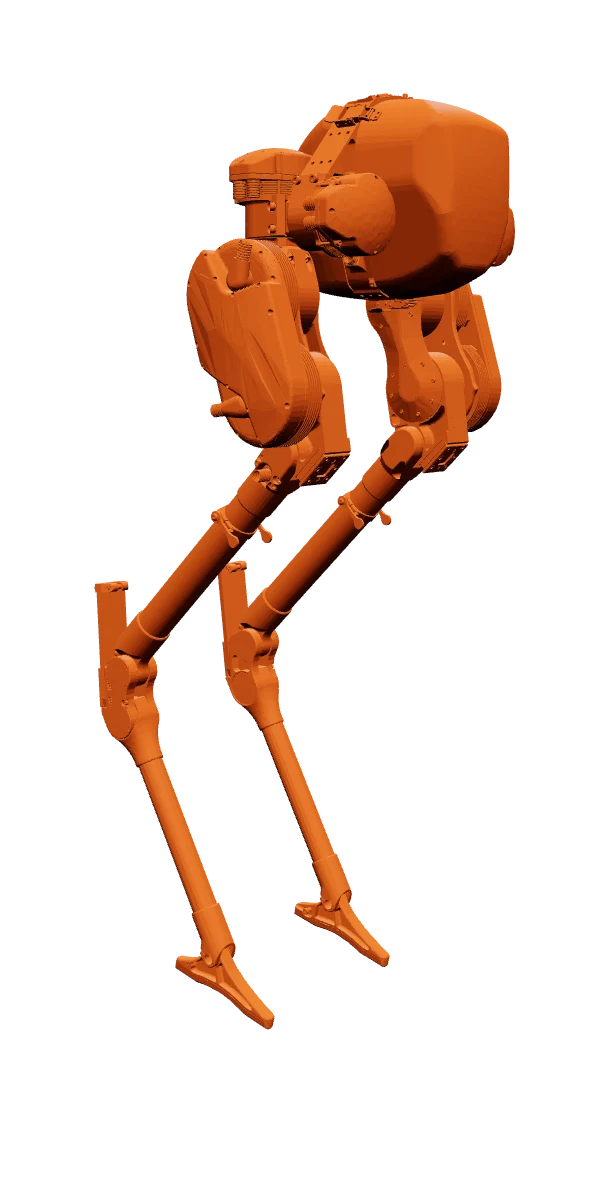
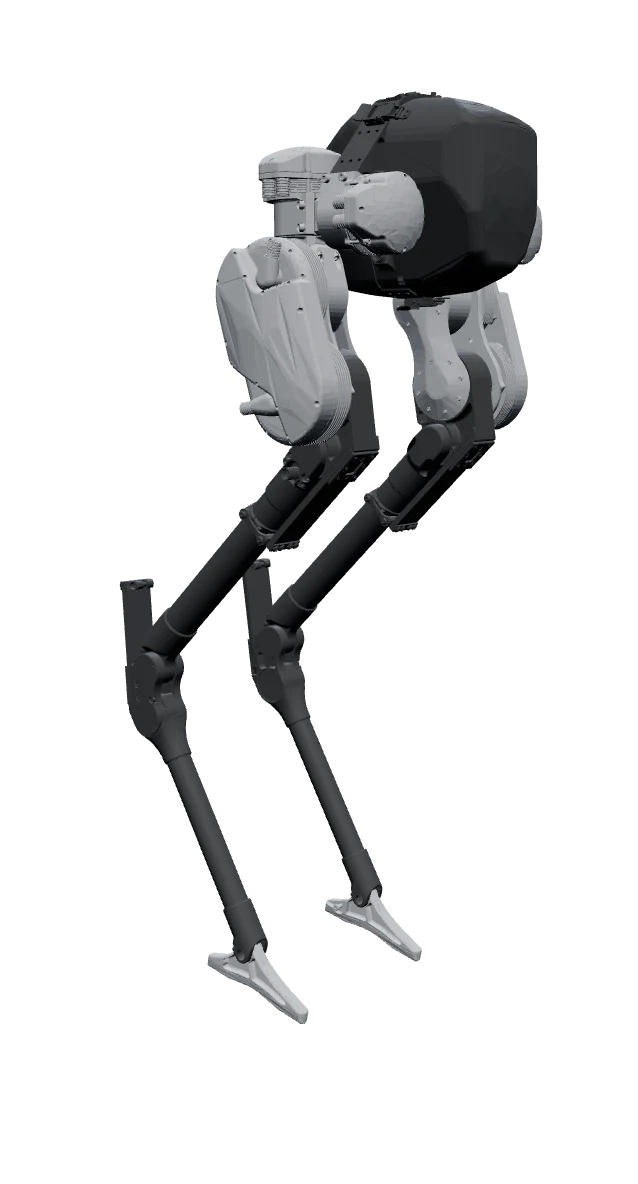
Use UMich BipedLab display URDF and grey thumbnail for Cassie

Changed region(s): [[0.1557, 0.0625, 0.8721, 0.875]]

diff --git a/data/visibility.md b/data/visibility.md
@@ -190,7 +190,7 @@ human readers.
 ## 双足 Biped · 14
 
 - [x] `berkeley_humanoid` **Berkeley Humanoid** — Hybrid Robotics — [HybridRobotics/berkeley_humanoid_description · berkeley_humanoid_description](https://github.com/HybridRobotics/berkeley_humanoid_description/tree/d0d13d3f81d795480e25ed1910eaf83d5f0a1d0b)
-- [x] `cassie` **Cassie** — Agility Robotics — [robot-descriptions/cassie_description · cassie_description](https://github.com/robot-descriptions/cassie_description/tree/81a2d8bbd77201cc974afb127adda4e2857a6dbf)
+- [x] `cassie` **Cassie** — Agility Robotics — [UMich-BipedLab/cassie_description](https://github.com/UMich-BipedLab/cassie_description/tree/96323f3d0cc2cb7101cb92d7fcf4650abdcb2e81)
 - [ ] `upkie` **Upkie** — Upkie Project — [upkie/upkie_description · upkie_description](https://github.com/upkie/upkie_description/tree/19a91ce69cab6742c613cab104986e3f8a18d6a5)
 - [x] `bolt` **Bolt** — ODRI — [Gepetto/example-robot-data · bolt_description](https://github.com/Gepetto/example-robot-data/tree/d0d9098d752014aec3725b07766962acf06c5418/robots/bolt_description)
 - [x] `rhea` **Rhea** — Gabrael Levine — [G-Levine/rhea_description · rhea_description](https://github.com/G-Levine/rhea_description/tree/1dc0f1abcf51b5d8a8f7ff8a548399ff0df1414f)
